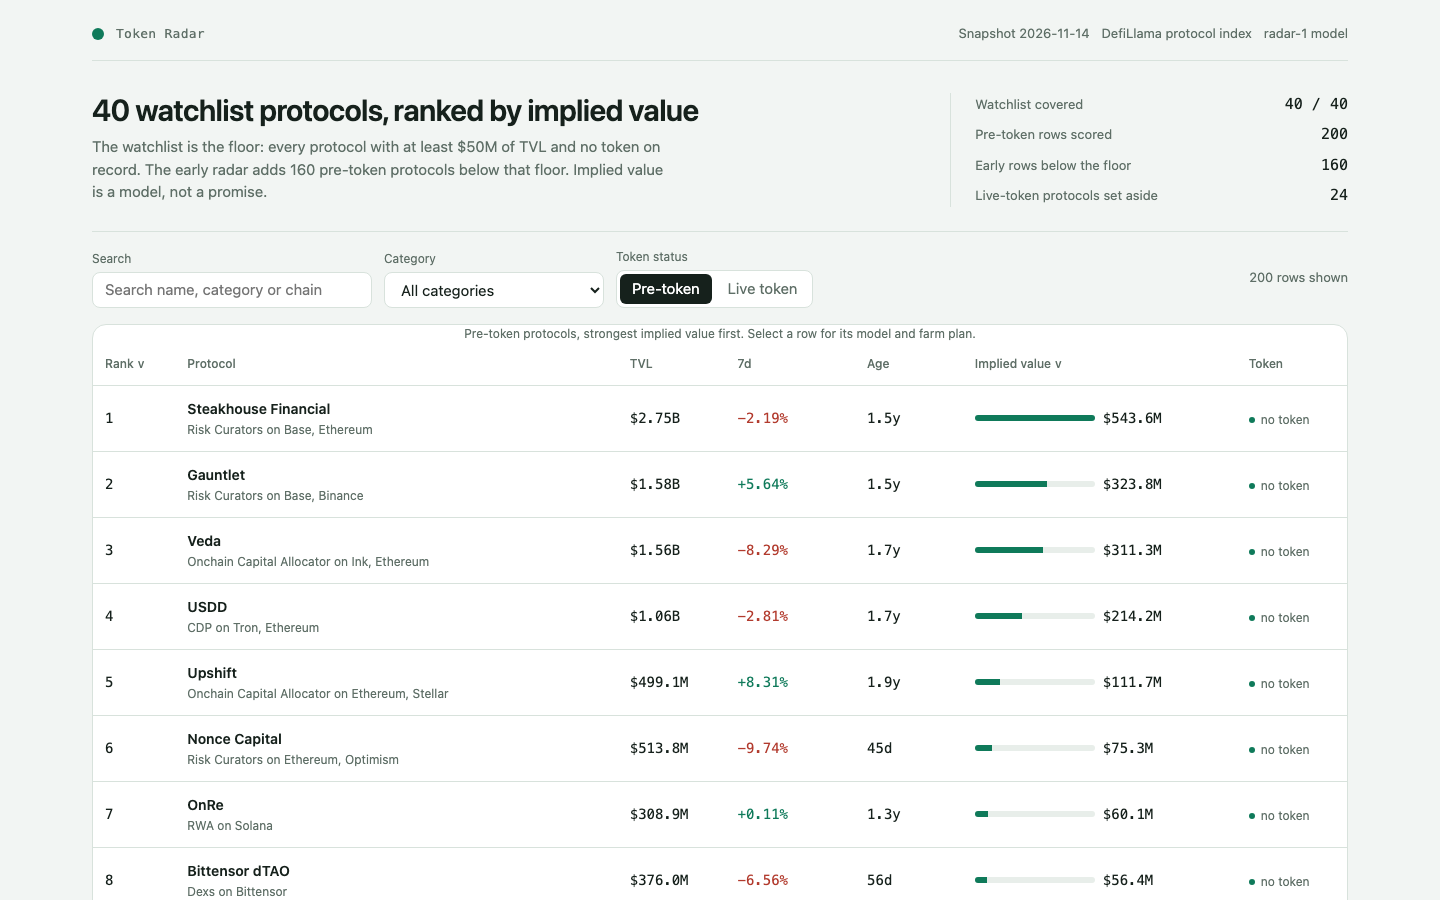
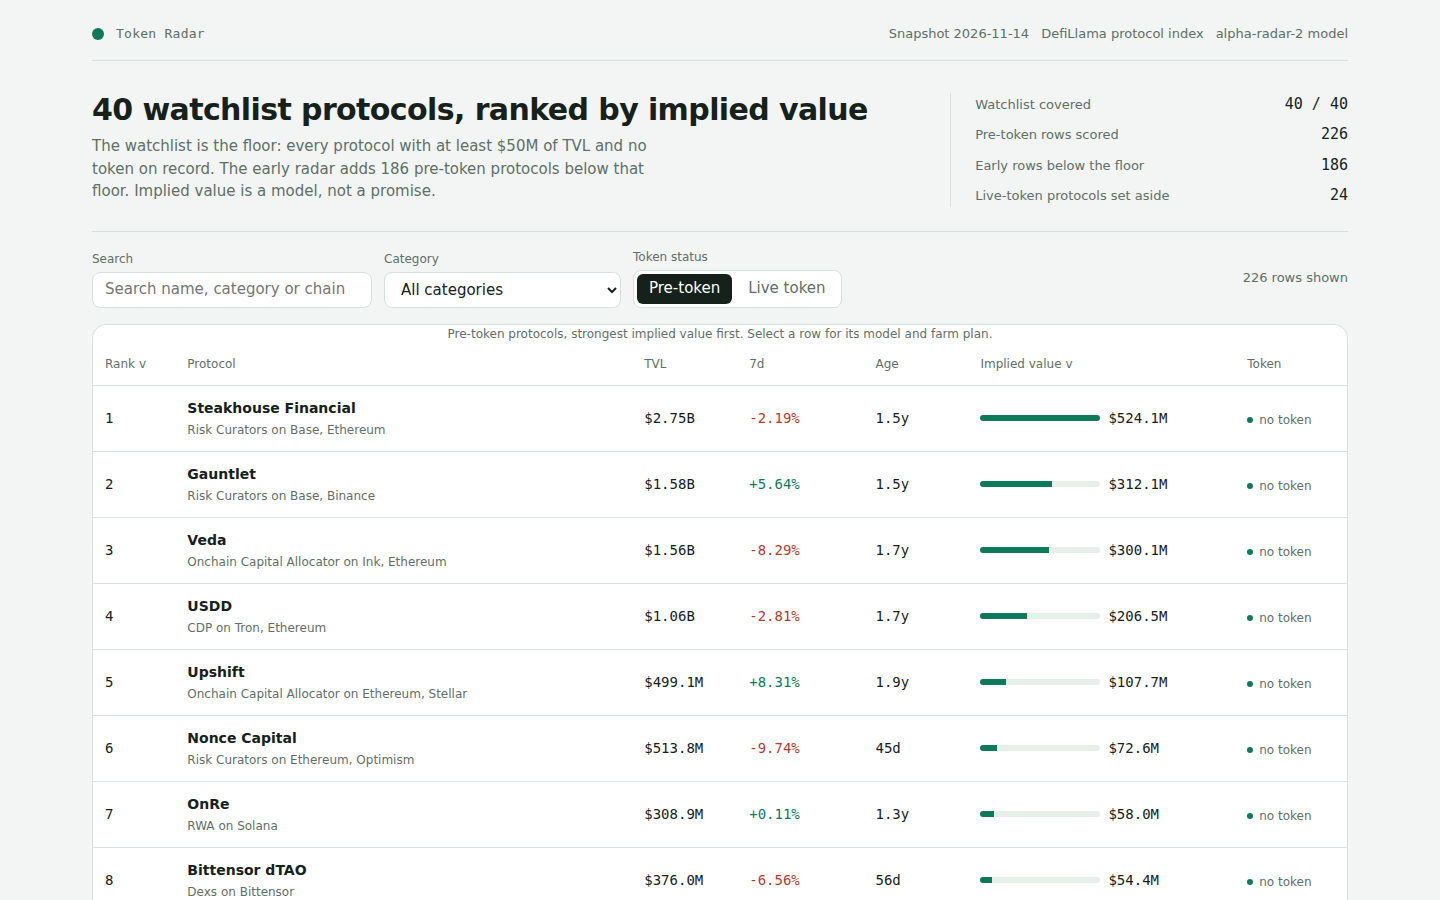
farm scenario calculator, own screenshots, rebuilt output

diff --git a/dashboard/app.js b/dashboard/app.js
@@ -293,6 +293,43 @@
     );
   }
 
+
+  // Scenario calculator. Every input is the reader's own assumption; nothing here is a forecast.
+  // value_if_issued = implied_value x pool% x (capital / (TVL + capital)) ; cost = capital x opp.rate x days/365 + gas x actions.
+  function farmSimulator(row) {
+    var inputs = { capital: 10000, pool: 5, days: 60, rate: 5, gas: 4, actions: 12 };
+    var box = el('section', { class: 'detail-section', id: 'sim' }, el('h3', { text: 'Farming scenario calculator' }));
+    box.appendChild(el('p', { class: 'sub', text: 'Edit the assumptions. Defaults are placeholders, not data. The protocol may never issue a token, and make.fun does not claim these values.' }));
+    var out = el('div', { class: 'equation', 'aria-live': 'polite' });
+    var fields = el('div', { class: 'equation' });
+    function usd(n) { return fmtUsd(Math.round(n)); }
+    function calc() {
+      var share = inputs.capital / (row.tvl_usd + inputs.capital);
+      var cost = inputs.capital * (inputs.rate / 100) * (inputs.days / 365) + inputs.gas * inputs.actions;
+      var rows = [['Low', row.implied_low_usd], ['Mid', row.implied_value_usd], ['High', row.implied_high_usd]].map(function (x) {
+        var gross = x[1] * (inputs.pool / 100) * share;
+        return { name: x[0], gross: gross, net: gross - cost };
+      });
+      var be = share > 0 ? cost / (row.implied_value_usd * share) * 100 : 0;
+      out.textContent = '';
+      out.appendChild(el('div', null, el('span', { text: 'Your share of TVL' }), el('b', { class: 'num', text: (share * 100).toFixed(4) + '%' })));
+      out.appendChild(el('div', null, el('span', { text: 'Total cost (capital lock + gas)' }), el('b', { class: 'num', text: usd(cost) })));
+      rows.forEach(function (r) {
+        out.appendChild(el('div', null, el('span', { text: r.name + ' case, net of cost' }), el('b', { class: 'num', text: (r.net < 0 ? '-' : '') + usd(Math.abs(r.net)) })));
+      });
+      out.appendChild(el('div', null, el('span', { text: 'Break-even pool (mid case)' }), el('b', { class: 'num', text: be.toFixed(2) + '% of implied value' })));
+    }
+    [['capital', 'Capital deployed (USD)'], ['pool', 'Airdrop pool, % of implied value'], ['days', 'Days capital is locked'], ['rate', 'Opportunity cost, % a year'], ['gas', 'Fee per action (USD)'], ['actions', 'Number of actions']].forEach(function (f) {
+      var input = el('input', { type: 'number', min: '0', step: 'any', value: String(inputs[f[0]]), 'aria-label': f[1] });
+      input.addEventListener('input', function () { var v = parseFloat(input.value); inputs[f[0]] = isFinite(v) && v >= 0 ? v : 0; calc(); });
+      fields.appendChild(el('label', null, el('span', { text: f[1] }), input));
+    });
+    box.appendChild(fields);
+    box.appendChild(out);
+    calc();
+    return box;
+  }
+
   var dialog = el('dialog', { class: 'detail', id: 'detail', 'aria-labelledby': 'detail-title' });
   dialog.addEventListener('close', function () { state.selected = null; writeHash(); });
 
@@ -334,6 +371,7 @@
       el('p', { class: 'sub', text: 'Signals: ' + row.signal_note + '. The score is a weighted count of record features, not a probability. It has no outcome data behind it and is not calibrated.' }),
       el('p', { class: 'sub', text: 'Low and high come from the spread of market cap to TVL among protocols that already have a token in this snapshot (' + DATA.calibration.n + ' protocols). Leave-one-out tests of that spread covered the true ratio ' + DATA.calibration.loo_coverage_pct + '% of the time inside P25 to P75, and within 2x of the median ' + DATA.calibration.loo_within_2x_pct + '% of the time. The band is wide because the spread is wide.' })
     ));
+    dialog.appendChild(farmSimulator(row));
     dialog.appendChild(el('section', { class: 'detail-section' },
       el('h3', { text: 'Farm plan' }),
       el('ol', { class: 'steps' }, steps.map(function (s) {

diff --git a/dashboard/app.css b/dashboard/app.css
@@ -137,3 +137,6 @@ tbody tr[data-selected="true"] { background: color-mix(in srgb, var(--accent) 8%
 @media (prefers-reduced-motion: reduce) {
   *, *::before, *::after { transition-duration: 0.01ms !important; animation-duration: 0.01ms !important; animation-iteration-count: 1 !important; }
 }
+
+#sim label{display:flex;flex-direction:column;gap:4px}
+#sim input{font:inherit;padding:8px 10px;border-radius:8px;border:1px solid currentColor;background:transparent;color:inherit;min-width:0}
